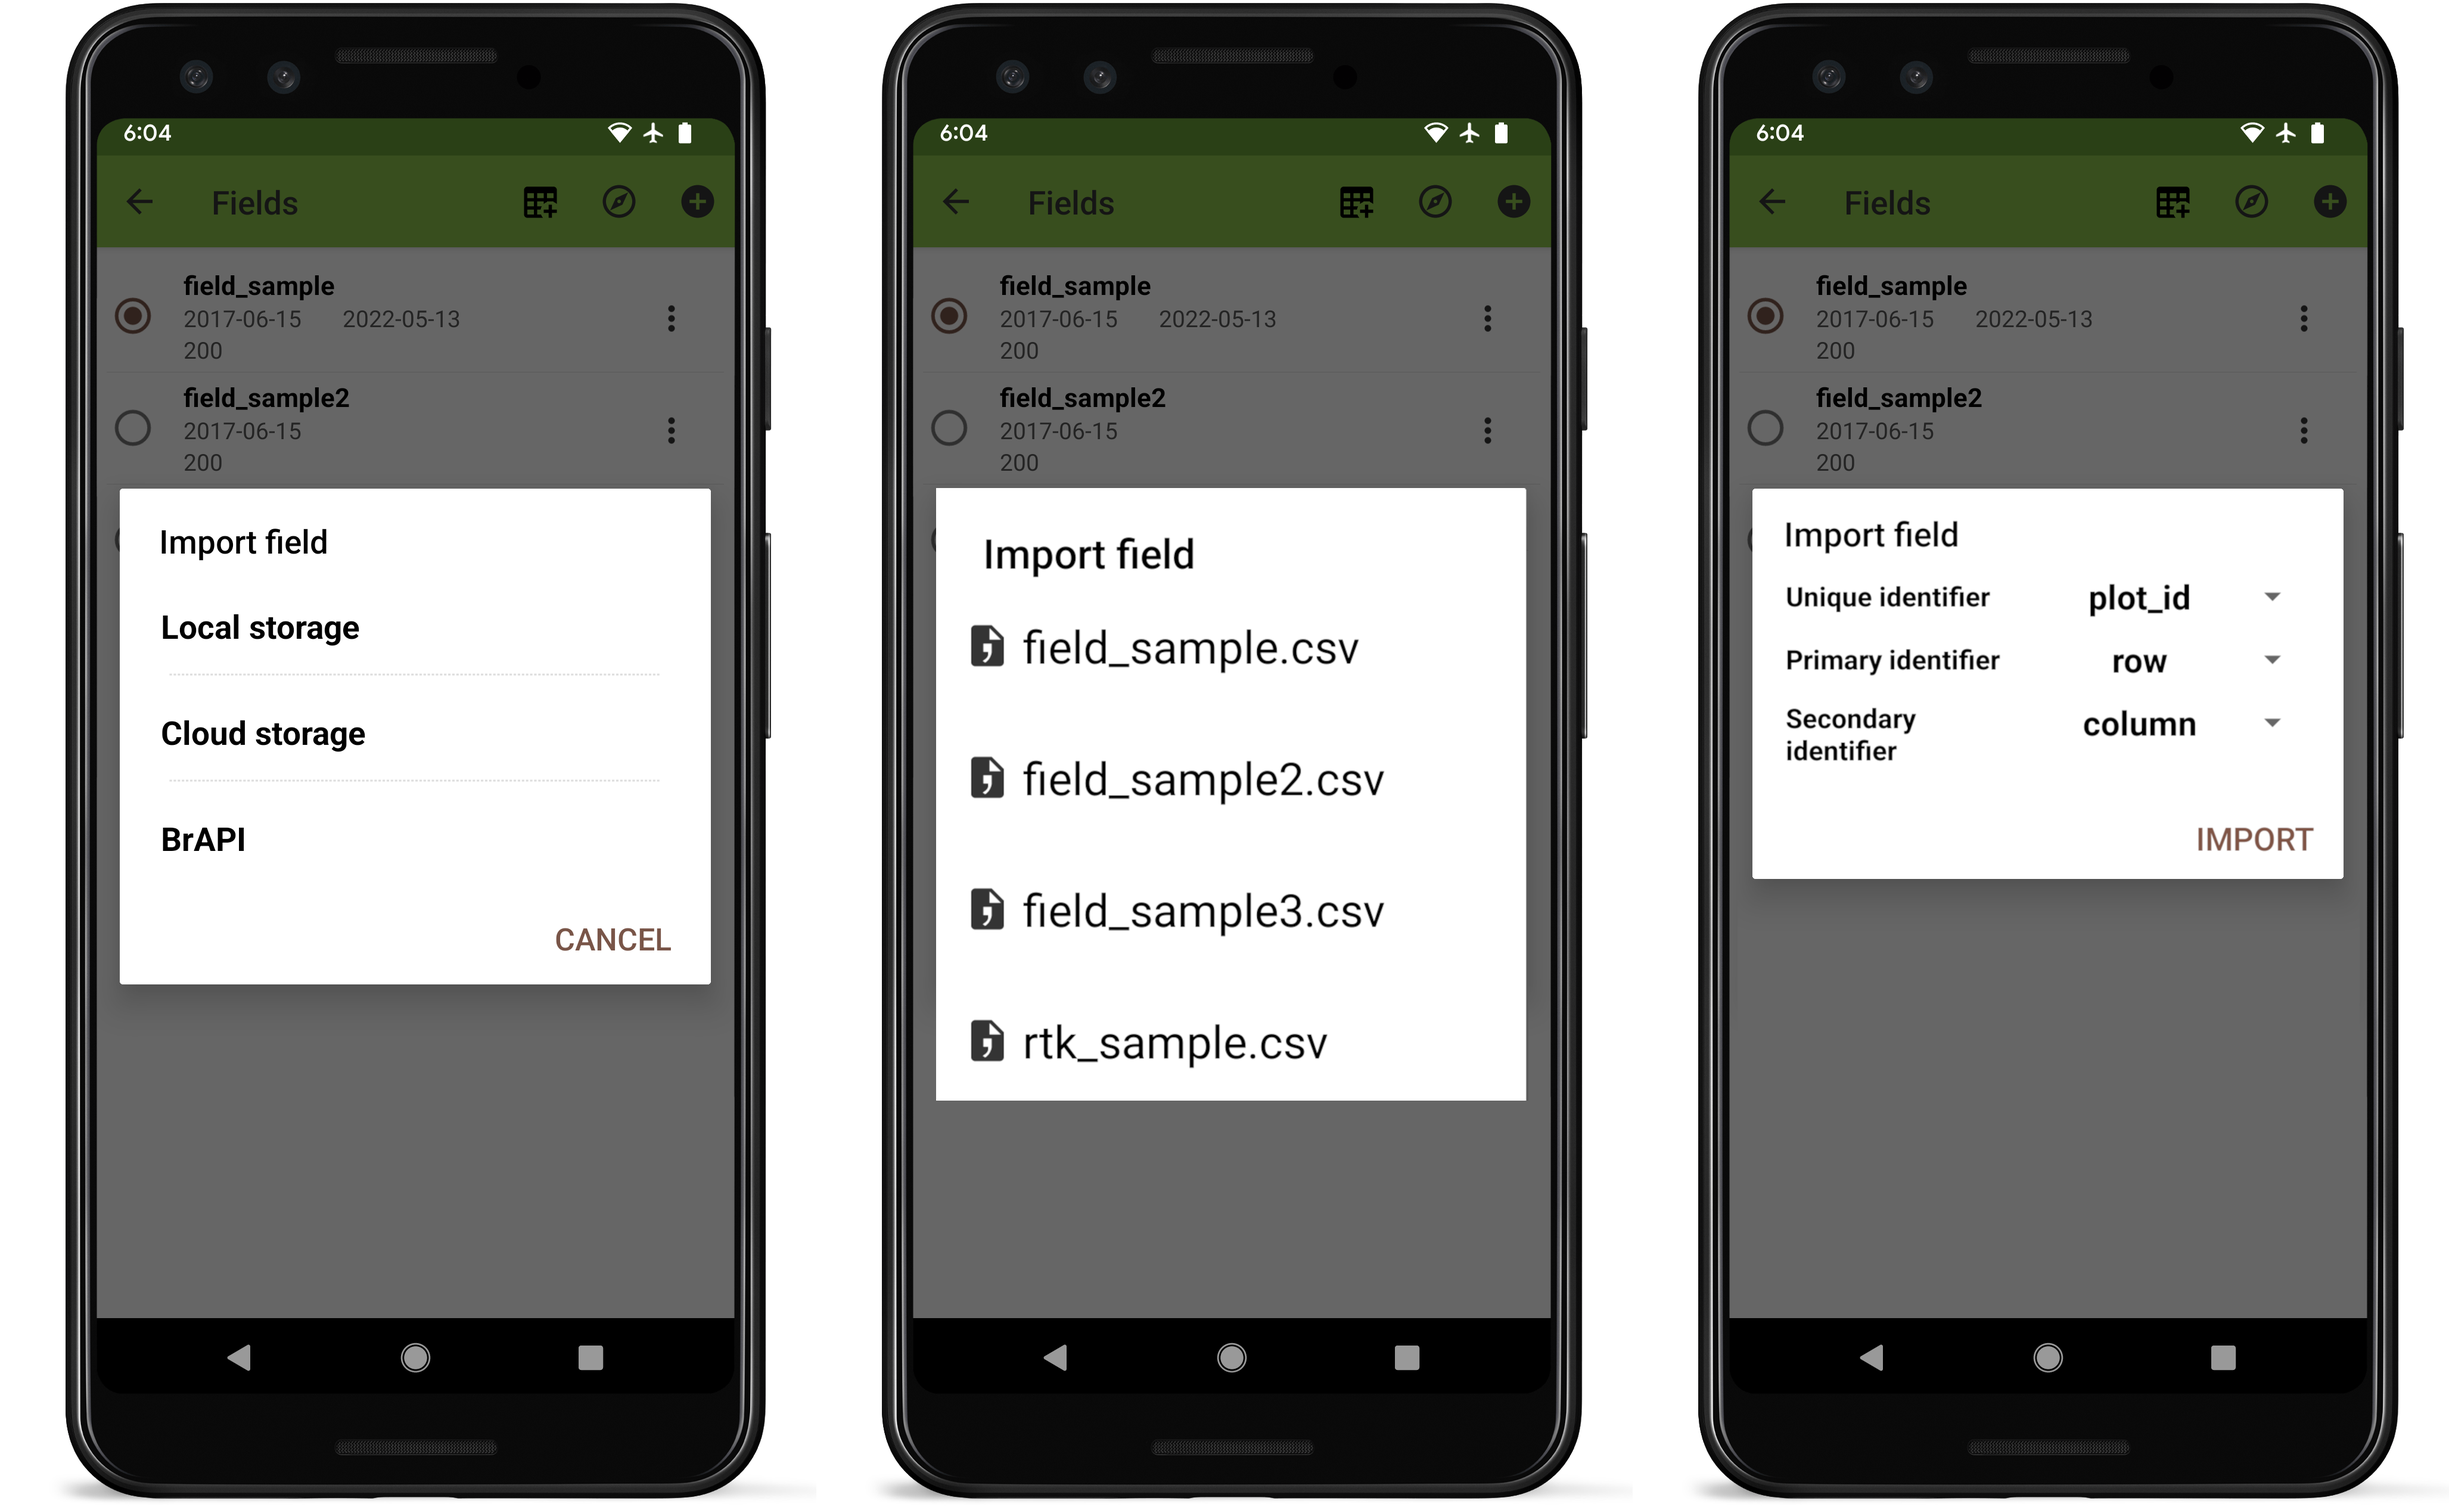
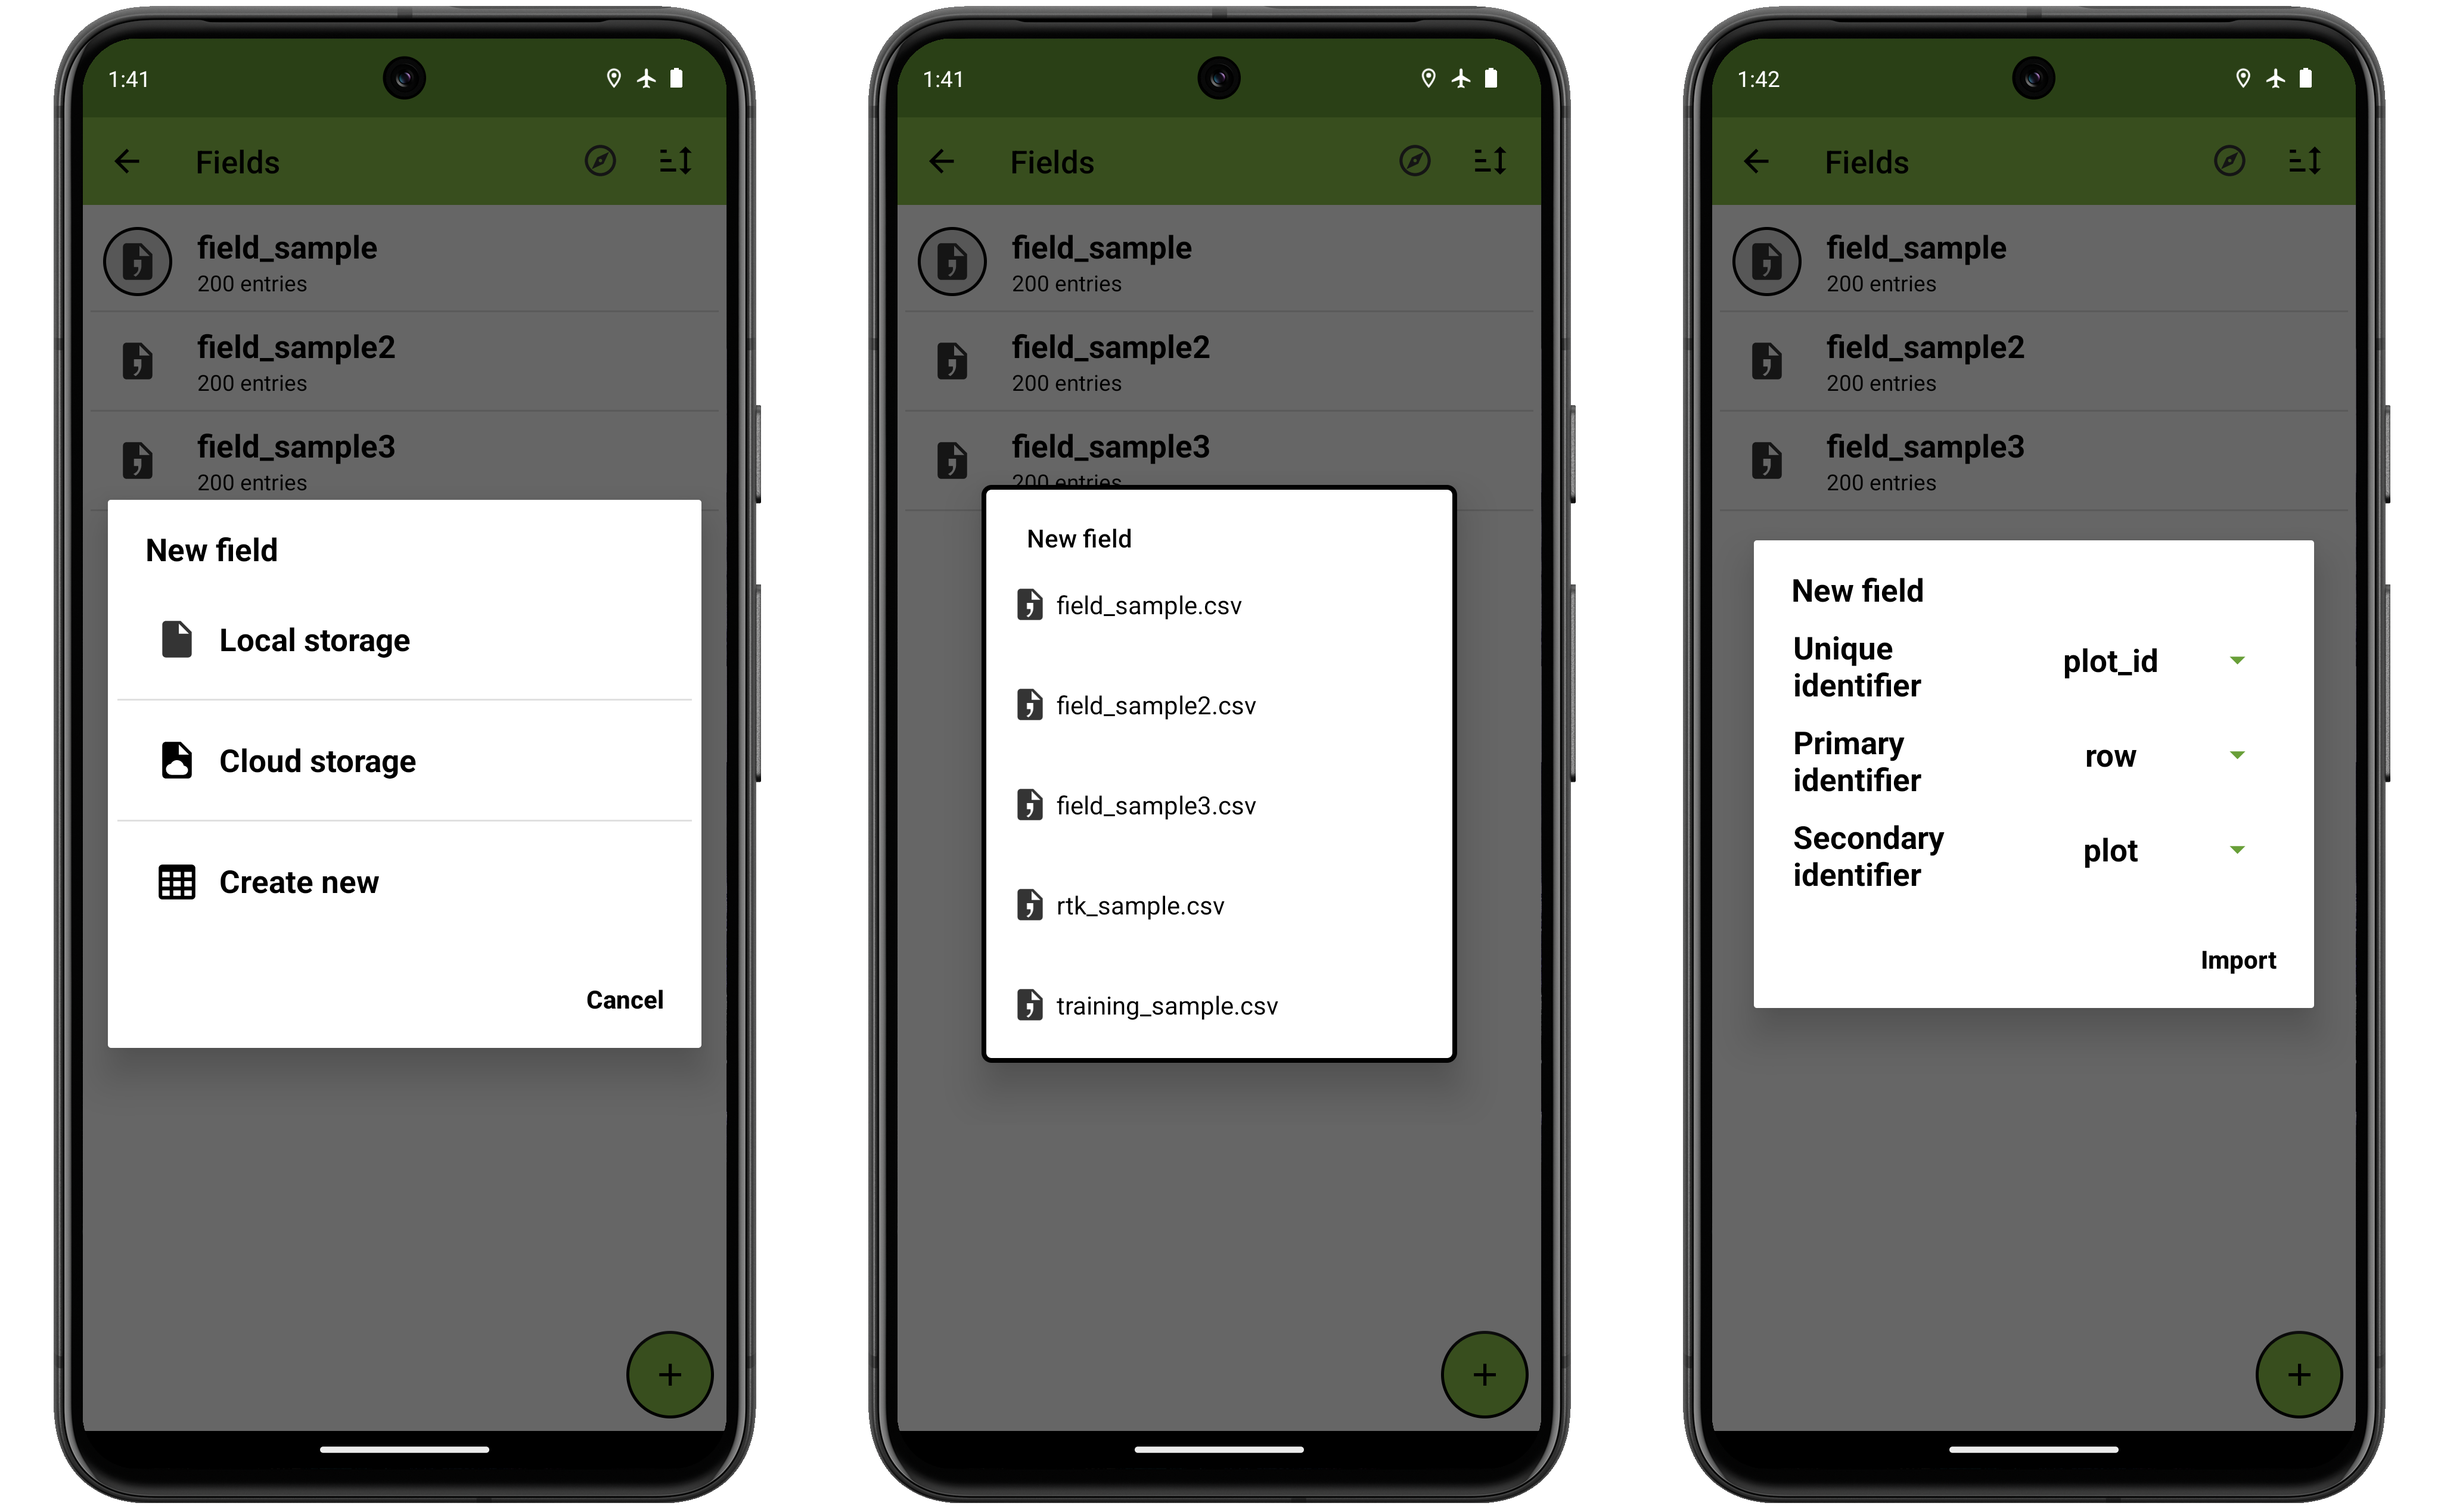
deploy: 4c769387b1683270d599e3a65f15ef8c238d47fb

diff --git a/fields.md b/fields.md
@@ -8,22 +8,19 @@ Experiments are represented in Field Book as `fields`. Fields are either
 imported from a file, from a BrAPI-enabled database, or created from
 scratch.
 
-Each field has a unique name, an import date, and a set of `entries`
-which represent the experimental units on which data will be collected
-(e.g., plots, plants). Once data is collected and exported for a given
-field it will display the dates of last edit and export.
+Each field is displayed in the list with an icon that matches its import source, its name, and its number of `entries` which represent the experimental units on which data will be collected (e.g., plots, plants). The icon can be pressed to set the field as the active field. Any other part of the field item can be pressed to open the field detail view.
 
 <figure align="center" class="image">
   <img src="_static/images/fields/fields_list_item.png" width="325px"> 
-  <figcaption><i>A sample field with a name, import/edit/export dates, and number of
-entries</i></figcaption> 
+  <figcaption><i>A sample field with a name, number of
+entries, and csv import icon</i></figcaption> 
 </figure>
 
 When importing from a file, each row in the file reprents an `entry`.
 Each entry within a field must have the following:
 
 - A `unique identifier`, which is used internally by Field Book to associate data with the specific entry. It must be unique across all of your fields.
-- A `primary identifier`, and a `secondary identifier`. These set the order of advancement through the field's entries, and can be whatever makes the most sense for your experiment. Most often they are numbers from the experimental design (e.g., row/plot, row/column, range/plot).
+- A `primary identifier`, and a `secondary identifier`. These remain visible while advancing through the field's entries, and can be whatever makes the most sense for your experiment. The optional Quick GoTo setting makes them editable, so it can be advantageous to make one of them the plot number if you plan to use it. That way a plot number edit can be used to jump to a specific plot. Common choices are row/plot, range/plot, rep/plot, etc.
 
 <figure align="center" class="image">
   <img src="_static/images/fields/fields_import_format.png" width="900px"> 
@@ -46,16 +43,15 @@ demonstrates the import format for entry location data (an additional
 `geo_coordinates` column). Imported entry coordinates can then be
 used with the <a href="geonav.md"><img style="vertical-align: middle;" src="_static/icons/settings/main/map-search.png" width="20px"></a> [Geonav](geonav.md) feature.
 
-Importing a new field
----------------------
+Adding a new field
+-------------------
 
-To import a new field into Field Book press the <img ref="add" style="vertical-align: middle;" src="_static/icons/fields/plus-circle.png" width="20px"> icon in the
-upper right-hand corner of the toolbar in the Fields section. Then, in
+To add a new field in Field Book press the floating <img ref="add" style="vertical-align: middle;" src="_static/icons/fields/plus-circle.png" width="20px"> button in the bottom righthand corner of the Fields section. Then, in
 the resulting dialog, select whether to import from a local file, from
-cloud storage (Dropbox, Google Drive, etc.), or via a <a href="brapi.md"><img style="vertical-align: middle;" src="_static/icons/settings/main/server-network.png" width="20px"></a> [Brapi](brapi.md) connection.
+cloud storage (Dropbox, Google Drive, etc.), create a new field from scratch, or import via a <a href="brapi.md"><img style="vertical-align: middle;" src="_static/icons/settings/main/server-network.png" width="20px"></a> [Brapi](brapi.md) connection.
 
 A default import source can be set in
-<a href="settings-general.md"><img style="vertical-align: middle;" src="_static/icons/home/cog.png" width="20px"></a> [General Settings](settings-general.md) to skip this dialog.
+<a href="settings-system.md"><img style="vertical-align: middle;" src="_static/icons/settings/main/cog-outline.png" width="20px"></a> [System Settings](settings-system.md) to skip this dialog.
 
 <figure align="center" class="image">
   <img src="_static/images/fields/fields_import_joined.png" width="1100px"> 
